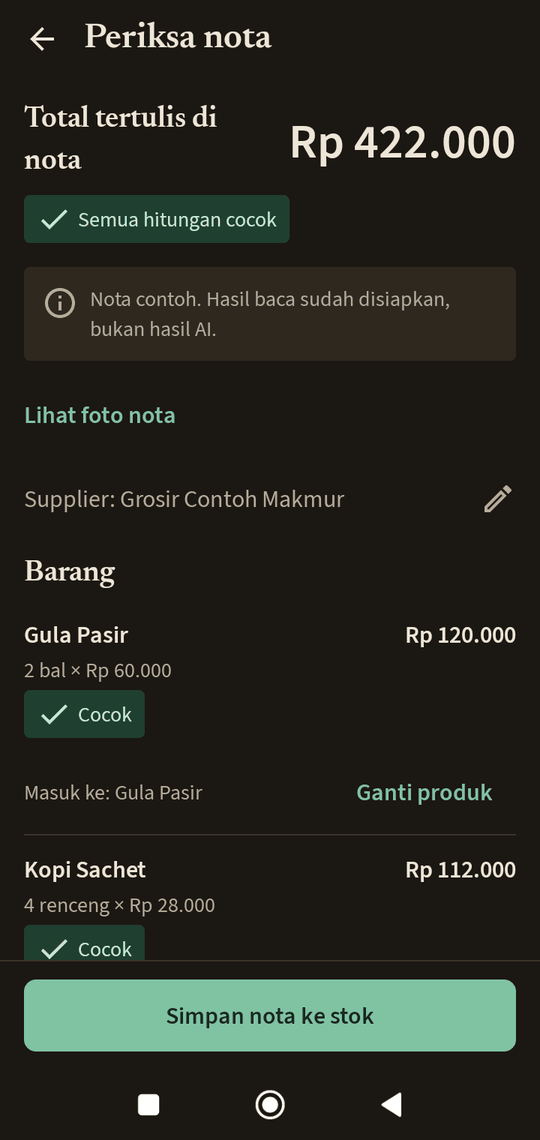
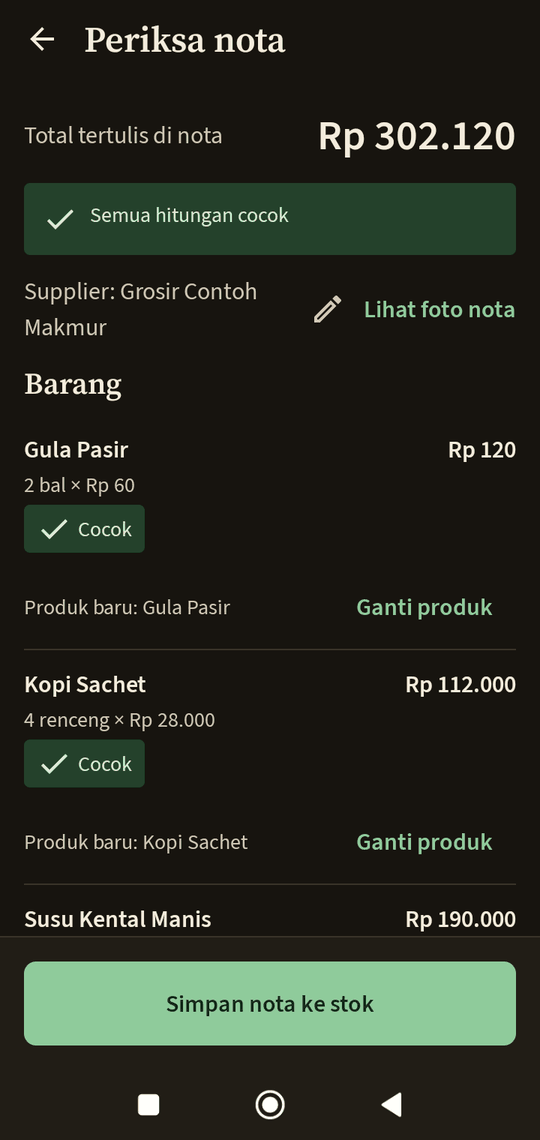
Docs: tangkapan layar README token v2

diff --git a/README.md b/README.md
@@ -12,7 +12,7 @@ Proyek ini adalah studi kasus produk dan rekayasa, bukan pesaing aplikasi kasir 
 
 <p>
   <img src="docs/img/contoh-pilihan.png" width="240" alt="Layar Catat nota dengan lembar Pilih nota contoh: tiga nota buatan sendiri, bukan nota nyata">
-  <img src="docs/img/contoh-selisih.png" width="240" alt="Layar Periksa nota untuk nota contoh: baris Gula Pasir ditandai selisih karena 2 x Rp 60 tidak sama dengan Rp 120.000">
+  <img src="docs/img/contoh-selisih.png" width="240" alt="Layar Periksa nota untuk nota contoh: baris Gula Pasir ditandai selisih karena 2 × Rp 60 tidak sama dengan Rp 120.000">
   <img src="docs/img/contoh-koreksi-gelap.png" width="240" alt="Layar Periksa nota tema gelap setelah koreksi: semua hitungan cocok dan tombol Simpan nota ke stok aktif">
 </p>
 
